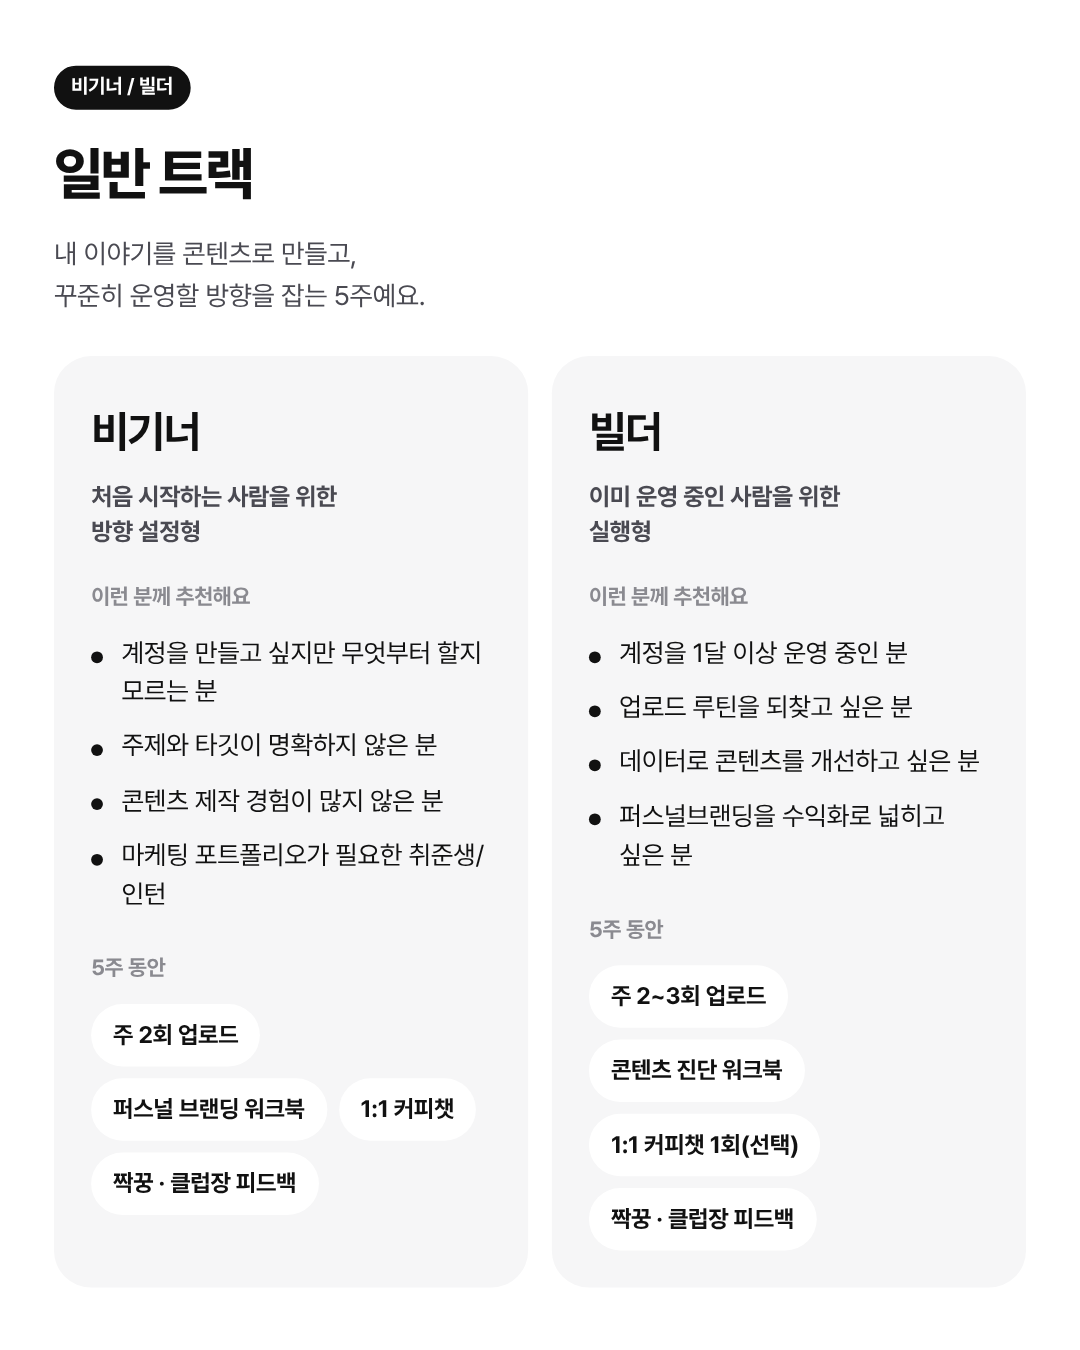
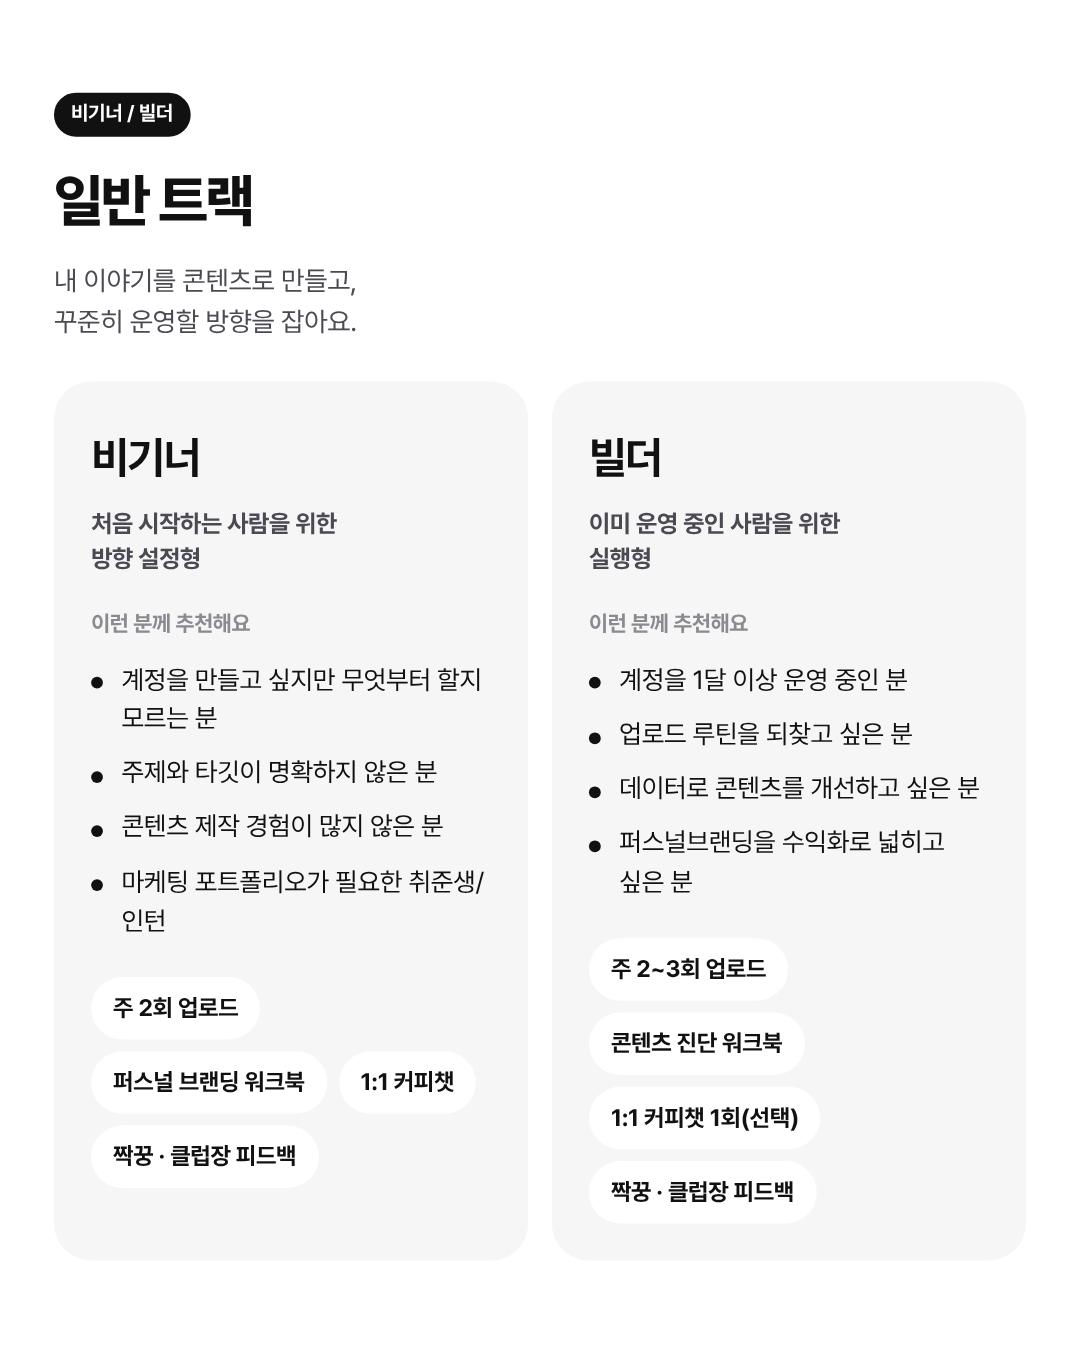
트랙 이미지 간소화: 상품 예시·5주 커리큘럼·'5주 동안' 문구 제거
Claude-Session: https://claude.ai/code/session_01XqYr6RvsLFwt1wzFyjbYPu

diff --git a/cardnews/render_page_scenes.js b/cardnews/render_page_scenes.js
@@ -144,23 +144,22 @@ const SCHED_CSS = '#schedule h2{font-size:34px} #schedule .hd{margin-bottom:16px
     // 7a 개요 (변경 없음)
     await customStill(b, '07a_레클에는 2-track이 있어요_개요', { W: 600, H: 750, css: '#cs h2{font-size:30px;font-weight:800;letter-spacing:-.04em;margin:0 0 22px} #cs .trk{gap:14px} #cs .tk{padding:26px 28px} #cs .tk h3{font-size:24px;margin:10px 0 6px} #cs .tk>p{font-size:15px} #cs .chk{margin-top:12px;gap:6px} #cs .chk li{font-size:14.5px}',
       html: `<h2>레클에는 2-track이 있어요</h2><div class="trk">
-      <div class="tk"><span class="badge req">비기너 / 빌더</span><h3>일반 트랙</h3><p>내 이야기를 콘텐츠로 만들고, 꾸준히 운영할 방향을 잡는 5주예요.</p><ul class="chk"><li>주 2~3회 콘텐츠 업로드</li><li>퍼스널 브랜딩 워크북</li><li>1:1 커피챗 · 짝꿍 피드백</li><li>매주 클럽장 콘텐츠 피드백</li></ul></div>
+      <div class="tk"><span class="badge req">비기너 / 빌더</span><h3>일반 트랙</h3><p>내 이야기를 콘텐츠로 만들고, 꾸준히 운영할 방향을 잡아요.</p><ul class="chk"><li>주 2~3회 콘텐츠 업로드</li><li>퍼스널 브랜딩 워크북</li><li>1:1 커피챗 · 짝꿍 피드백</li><li>매주 클럽장 콘텐츠 피드백</li></ul></div>
       <div class="tk biz2"><span class="badge new">NEW</span><h3>비즈니스 트랙</h3><p>5주 안에 내 상품 하나를 만들고, 판매를 열어봅니다. 소수로 진행해요.</p><ul class="chk"><li>상품 구성 · 가격 설계</li><li>판매 콘텐츠 · 구매/신청 페이지</li><li>4주차 판매 시작</li><li>첫 판매 회고 · 다음 액션 정리</li></ul></div></div>` });
 
     // 7b 일반 트랙: 간결하게(추천 대상 + 활동만, 커리큘럼 제외)
-    const col = (name, tag, rec, act) => `<div class="gcol"><h3>${name}</h3><p class="gt">${tag}</p><p class="gl">이런 분께 추천해요</p><ul class="chk">${rec.map(x => `<li>${x}</li>`).join('')}</ul><p class="gl">5주 동안</p><div class="pills">${act.map(x => `<span>${x}</span>`).join('')}</div></div>`;
+    const col = (name, tag, rec, act) => `<div class="gcol"><h3>${name}</h3><p class="gt">${tag}</p><p class="gl">이런 분께 추천해요</p><ul class="chk">${rec.map(x => `<li>${x}</li>`).join('')}</ul><div class="pills">${act.map(x => `<span>${x}</span>`).join('')}</div></div>`;
     await customStill(b, '07b_레클에는 2-track이 있어요_일반 트랙', { W: 640, H: 800,
       css: '#cs{padding:44px 32px} #cs .top{margin-bottom:22px} #cs .top h2{font-size:34px;font-weight:800;letter-spacing:-.045em;margin:10px 0 8px} #cs .top p{font-size:16px;color:#4a4a52;margin:0;line-height:1.55} #cs .g2{display:grid;grid-template-columns:1fr 1fr;gap:14px} #cs .gcol{background:#f6f6f7;border-radius:22px;padding:24px 22px 22px} #cs .gcol h3{font-size:26px;margin:0 0 6px;letter-spacing:-.04em} #cs .gt{font-size:14.5px;font-weight:700;line-height:1.45;margin:0 0 18px;color:#4a4a52} #cs .gl{font-size:13px;font-weight:700;color:#8a8a90;margin:0 0 10px} #cs .chk{margin:0 0 22px;gap:9px} #cs .chk li{font-size:15.5px;line-height:1.5;padding-left:18px;color:#111} #cs .chk li::before{width:7px;height:7px;top:.7em} #cs .pills{display:flex;flex-wrap:wrap;gap:7px} #cs .pills span{background:#fff;border-radius:99px;padding:7px 13px;font-size:14px;font-weight:700}',
-      html: `<div class="top"><span class="badge req">비기너 / 빌더</span><h2>일반 트랙</h2><p>내 이야기를 콘텐츠로 만들고,<br>꾸준히 운영할 방향을 잡는 5주예요.</p></div><div class="g2">`
+      html: `<div class="top"><span class="badge req">비기너 / 빌더</span><h2>일반 트랙</h2><p>내 이야기를 콘텐츠로 만들고,<br>꾸준히 운영할 방향을 잡아요.</p></div><div class="g2">`
         + col('비기너', '처음 시작하는 사람을 위한<br>방향 설정형', ['계정을 만들고 싶지만 무엇부터 할지 모르는 분', '주제와 타깃이 명확하지 않은 분', '콘텐츠 제작 경험이 많지 않은 분', '마케팅 포트폴리오가 필요한 취준생/인턴'], ['주 2회 업로드', '퍼스널 브랜딩 워크북', '1:1 커피챗', '짝꿍 · 클럽장 피드백'])
         + col('빌더', '이미 운영 중인 사람을 위한<br>실행형', ['계정을 1달 이상 운영 중인 분', '업로드 루틴을 되찾고 싶은 분', '데이터로 콘텐츠를 개선하고 싶은 분', '퍼스널브랜딩을 수익화로 넓히고 싶은 분'], ['주 2~3회 업로드', '콘텐츠 진단 워크북', '1:1 커피챗 1회(선택)', '짝꿍 · 클럽장 피드백']) + '</div>' });
 
     // 7c 비즈니스 트랙: 간결하게
     await customStill(b, '07c_레클에는 2-track이 있어요_비즈니스 트랙', { W: 600, H: 750,
-      css: '#cs{padding:44px 36px} #cs h2{font-size:34px;font-weight:800;letter-spacing:-.045em;margin:10px 0 14px} #cs .lead{font-size:19px;line-height:1.5;font-weight:800;margin:0 0 20px;letter-spacing:-.03em} #cs .ex{font-size:14.5px;font-weight:700;color:#3b6300;background:#e0ffba;border-radius:12px;padding:10px 14px;margin:-10px 0 22px;align-self:flex-start} #cs .sm{font-size:15px;color:#8a8a90;margin:0 0 26px;font-weight:600} #cs .gh{font-size:14px;font-weight:700;color:#8a8a90;margin:0 0 10px} #cs .chk{margin:0 0 22px;gap:8px} #cs .chk li{font-size:16px;line-height:1.5;color:#111} #cs .chk li::before{top:.68em} #cs .tline{margin:4px 0 0} #cs .tline li{padding:0 0 11px 32px} #cs .tline li:last-child{padding-bottom:0} #cs .tline h4{font-size:17.5px;margin:1px 0 0;letter-spacing:-.03em} #cs .tline .wl{font-size:12.5px} #cs .tline li::after{top:20px;left:5px} #cs .tline li::before{width:12px;height:12px;border-width:2.5px}',
+      css: '#cs{padding:44px 36px} #cs h2{font-size:34px;font-weight:800;letter-spacing:-.045em;margin:10px 0 14px} #cs .lead{font-size:23px;line-height:1.5;font-weight:800;margin:0 0 20px;letter-spacing:-.03em} #cs .ex{font-size:14.5px;font-weight:700;color:#3b6300;background:#e0ffba;border-radius:12px;padding:10px 14px;margin:-10px 0 22px;align-self:flex-start} #cs .sm{font-size:15px;color:#8a8a90;margin:0 0 26px;font-weight:600} #cs .gh{font-size:14px;font-weight:700;color:#8a8a90;margin:0 0 10px} #cs .chk{margin:0 0 22px;gap:8px} #cs .chk li{font-size:19px;line-height:1.55;color:#111} #cs .chk li::before{top:.68em} #cs .tline{margin:4px 0 0} #cs .tline li{padding:0 0 11px 32px} #cs .tline li:last-child{padding-bottom:0} #cs .tline h4{font-size:17.5px;margin:1px 0 0;letter-spacing:-.03em} #cs .tline .wl{font-size:12.5px} #cs .tline li::after{top:20px;left:5px} #cs .tline li::before{width:12px;height:12px;border-width:2.5px}',
       html: `<span class="badge new">NEW</span><h2>비즈니스 트랙</h2><p class="lead">5주 안에 나만의 상품을 하나 만들어서<br>판매까지 이어봐요.</p>
-      <p class="gh">이런 분께 추천해요</p><ul class="chk"><li>내 경험·노하우를 상품(템플릿, 전자책, 컨설팅)으로 만들고 싶은 분</li><li>콘텐츠는 꾸준히 만들고, 이제 판매 흐름을 만들어보고 싶은 분</li><li>5주 동안 매주 만들고, 공개하고, 함께 회고할 수 있는 분</li></ul><span class="ex">상품 예시) 전자책, 템플릿, 커뮤니티, 컨설팅</span>
-      <p class="gh">5주 커리큘럼</p><ol class="tline"><li><span class="wl">1주차</span><h4>OT · 상품 정의서 작성</h4></li><li><span class="wl">2주차</span><h4>상품 초안 구성</h4></li><li><span class="wl">3주차</span><h4>상품 기획 완료 · 판매 준비</h4></li><li><span class="wl">4주차</span><h4>판매 시작</h4></li><li><span class="wl">5주차</span><h4>첫 판매 회고 · 다음 액션 정리</h4></li></ol>` });
+      <p class="gh">이런 분께 추천해요</p><ul class="chk"><li>내 경험·노하우를 상품(템플릿, 전자책, 컨설팅)으로 만들고 싶은 분</li><li>콘텐츠는 꾸준히 만들고, 이제 판매 흐름을 만들어보고 싶은 분</li><li>5주 동안 매주 만들고, 공개하고, 함께 회고할 수 있는 분</li></ul>` });
   }
 
   // 8 마지막 장표 (모션): 글자 단위 등장 + 레이어 카드가 쌓이는 배경 + 형광펜 + 흐르는 모토 띠 + 느린 줌
